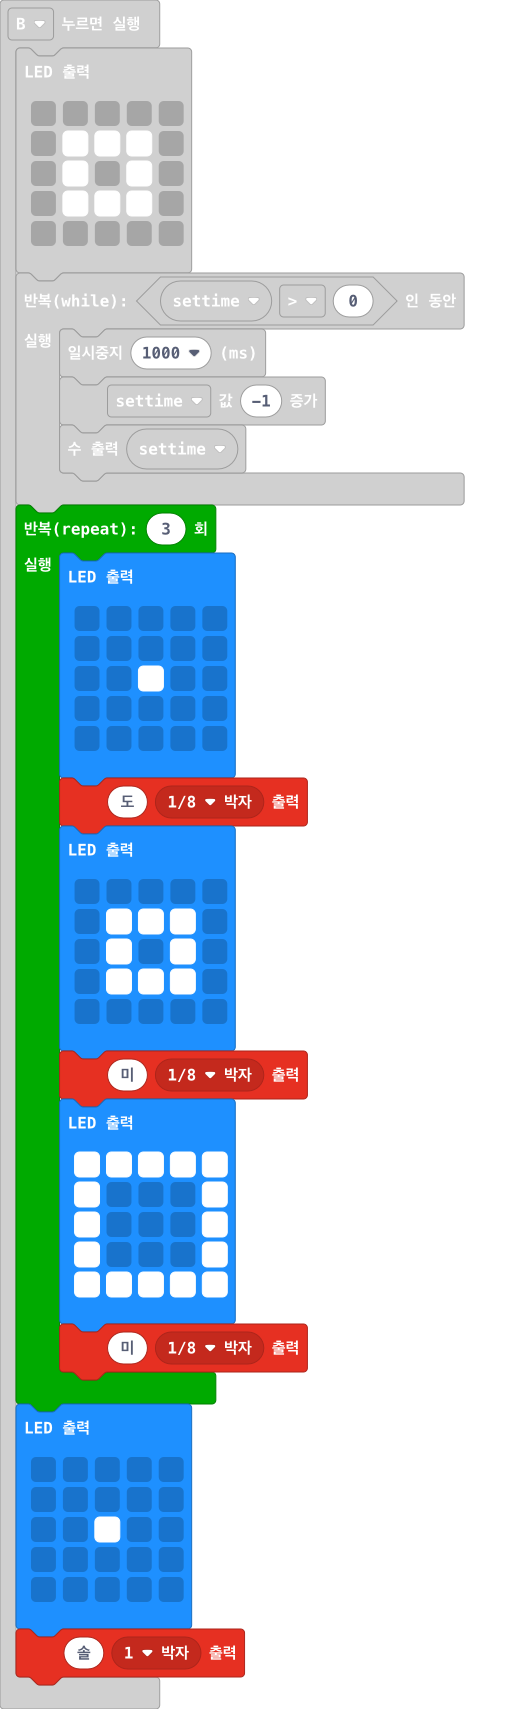
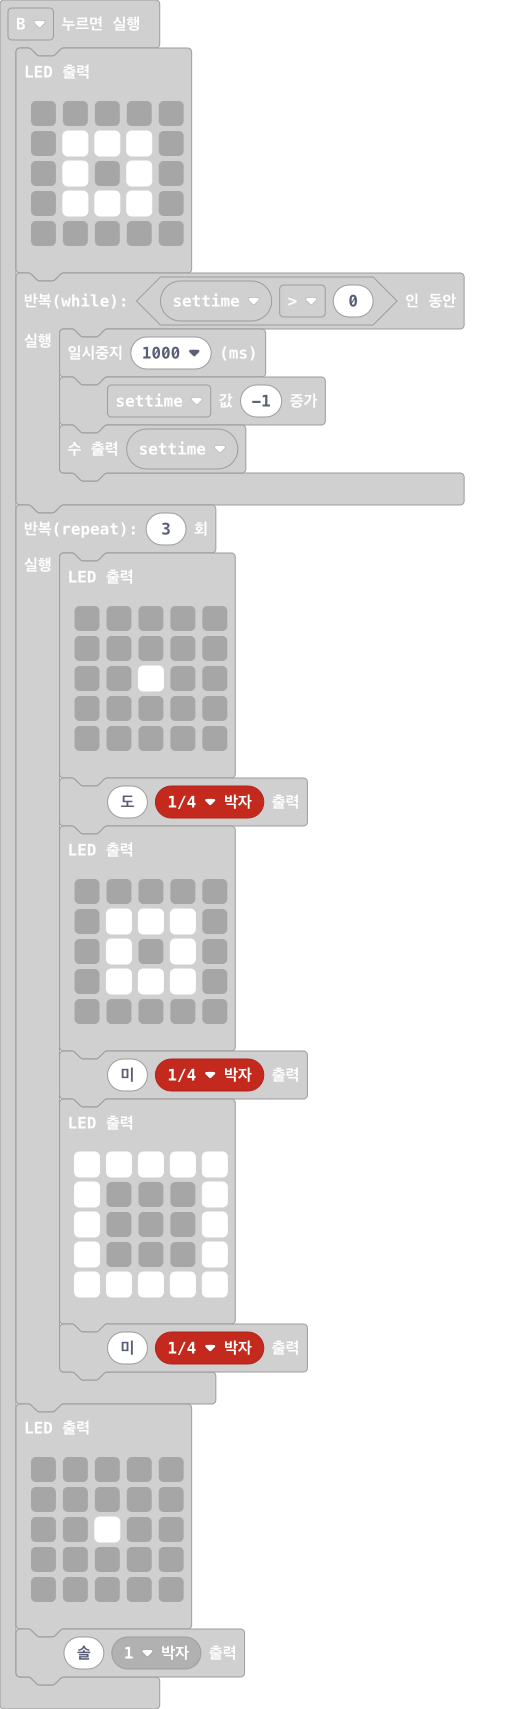
ㅋ

Changed region(s): [[0.031, 0.2791, 0.6202, 0.9924]]

diff --git a/main.ts b/main.ts
@@ -27,7 +27,7 @@ input.onButtonPressed(Button.B, function () {
             . . . . .
             . . . . .
             `)
-        music.playTone(262, music.beat(BeatFraction.Eighth))
+        music.playTone(262, music.beat(BeatFraction.Quarter))
         basic.showLeds(`
             . . . . .
             . # # # .
@@ -35,7 +35,7 @@ input.onButtonPressed(Button.B, function () {
             . # # # .
             . . . . .
             `)
-        music.playTone(330, music.beat(BeatFraction.Eighth))
+        music.playTone(330, music.beat(BeatFraction.Quarter))
         basic.showLeds(`
             # # # # #
             # . . . #
@@ -43,7 +43,7 @@ input.onButtonPressed(Button.B, function () {
             # . . . #
             # # # # #
             `)
-        music.playTone(330, music.beat(BeatFraction.Eighth))
+        music.playTone(330, music.beat(BeatFraction.Quarter))
     }
     basic.showLeds(`
         . . . . .
